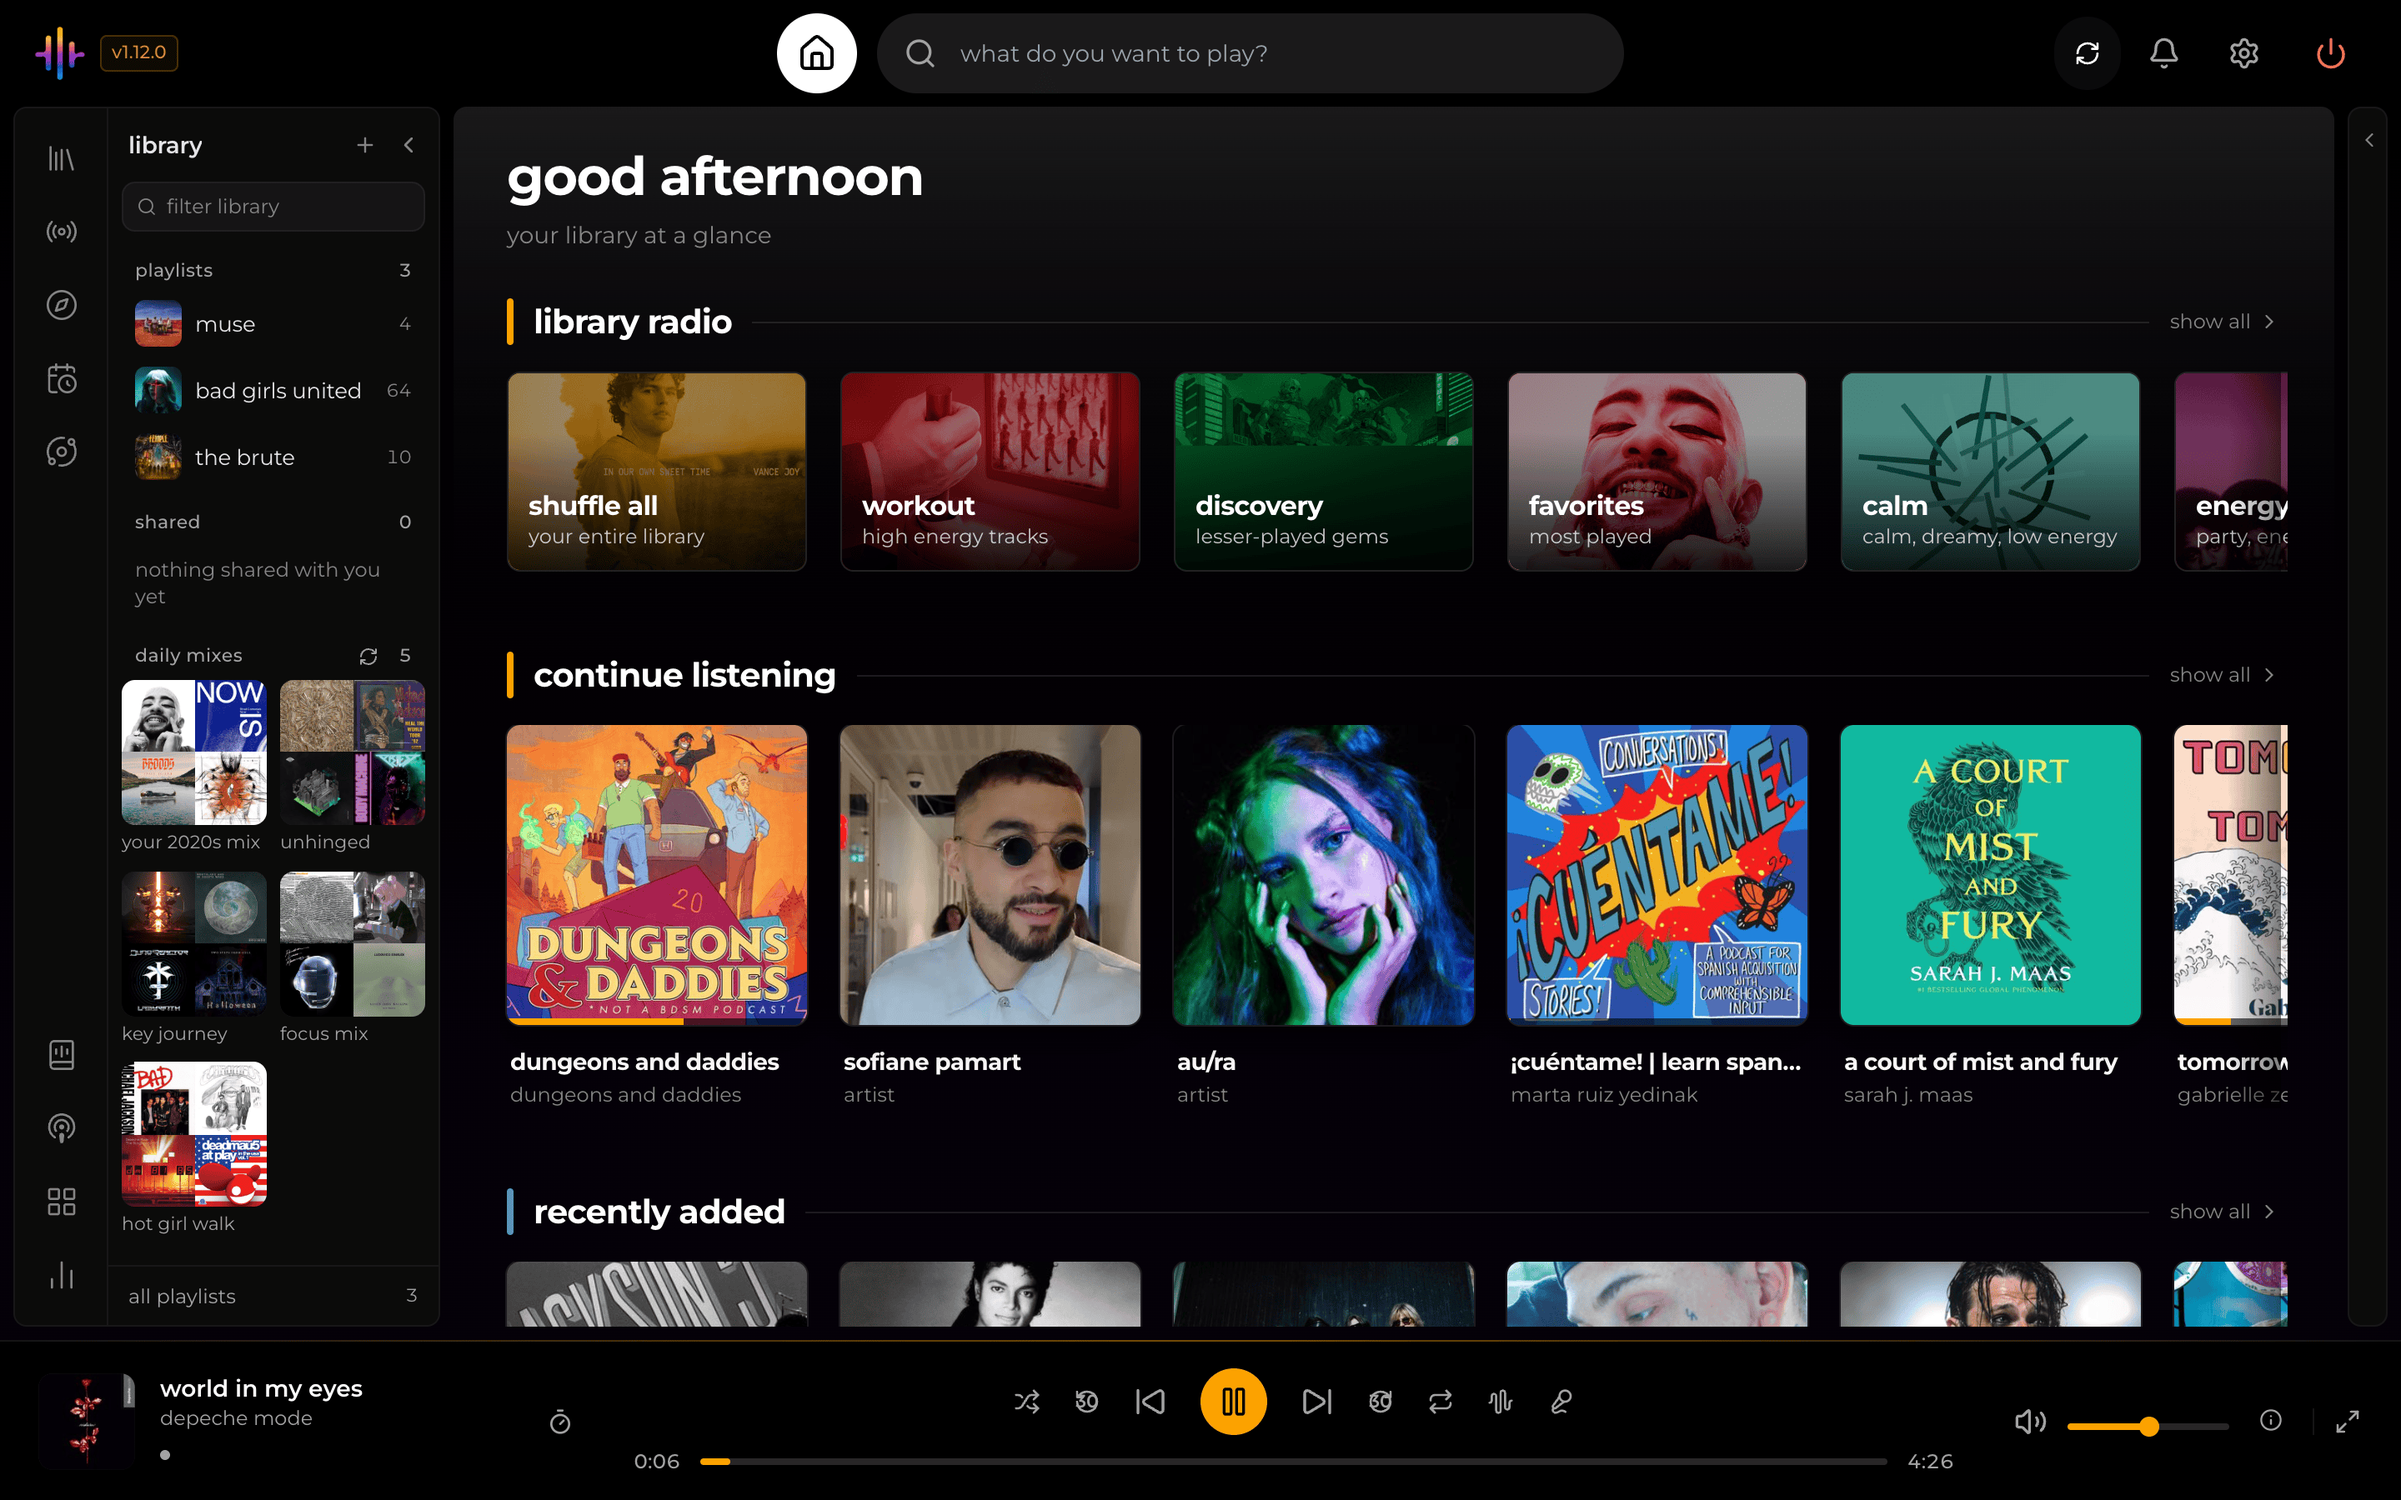
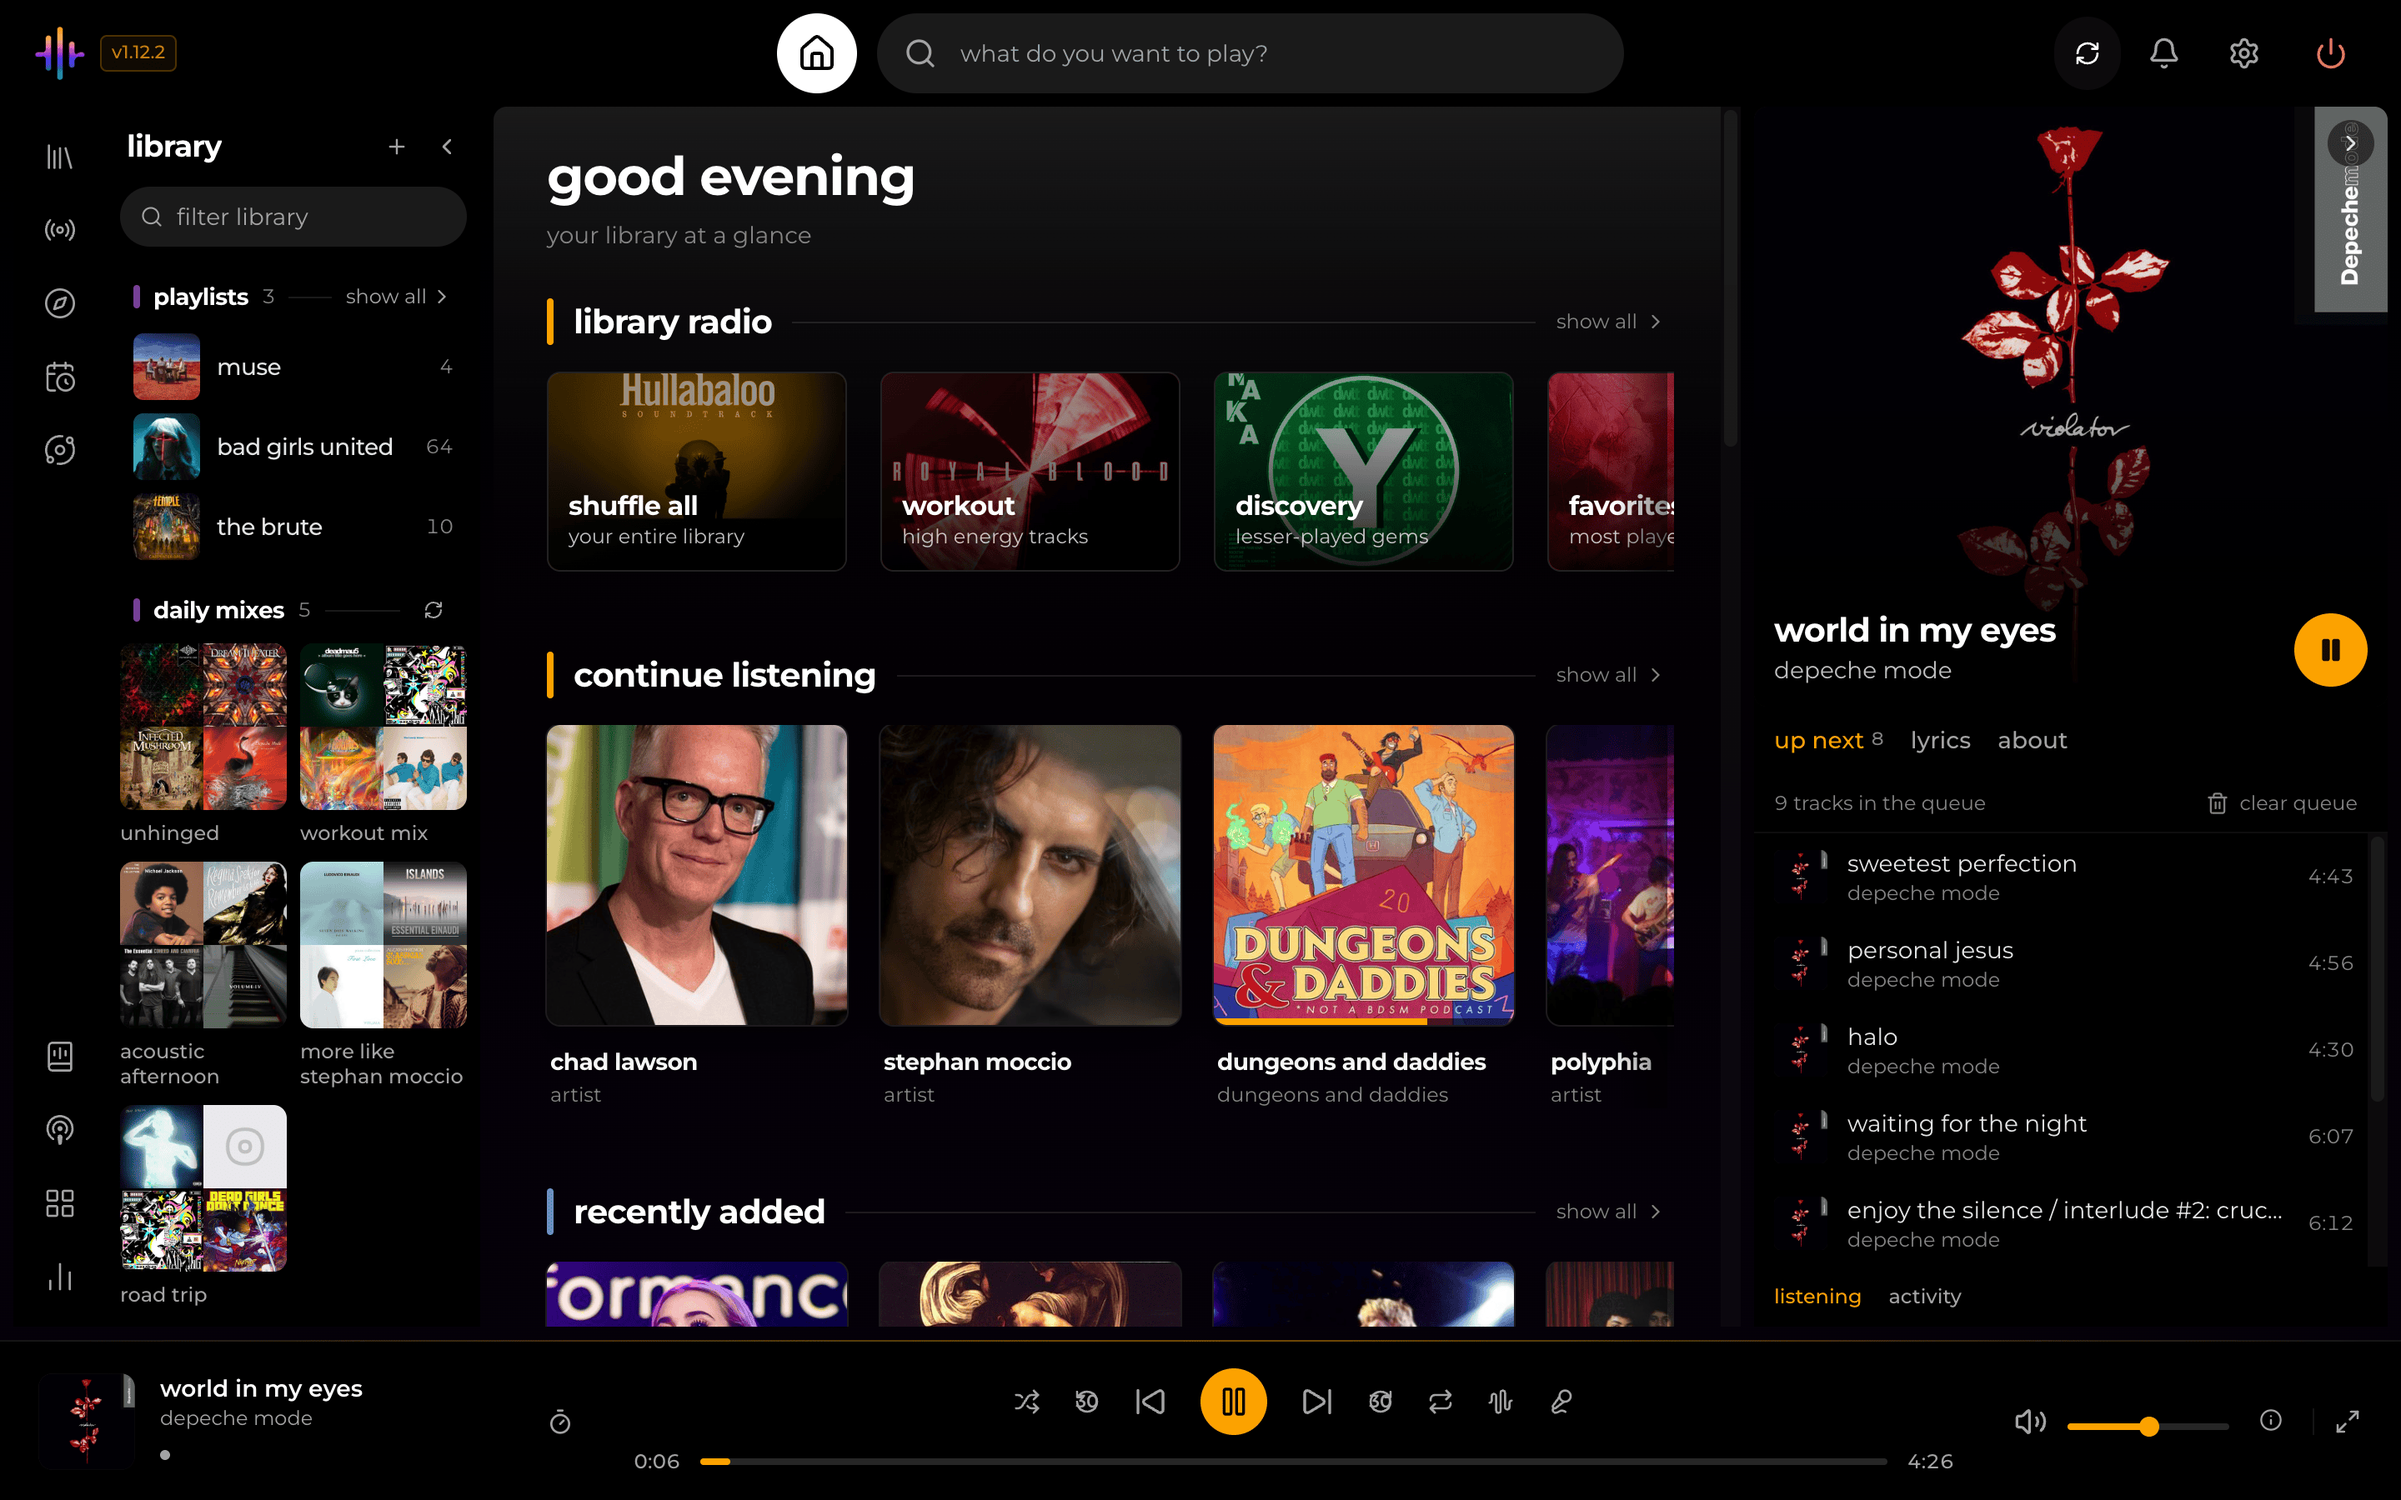
docs(readme): desktop screenshots retaken with the new sidebars

diff --git a/scripts/take-screenshots.js b/scripts/take-screenshots.js
@@ -137,8 +137,8 @@ const HIDE_INDICATORS = 'button[aria-label="Toggle activity panel"] > span.absol
 async function shot(page, name) {
     await guard(page, name);
     await page.addStyleTag({ content: HIDE_INDICATORS });
-    // Park the pointer on empty sidebar so no card shows its hover state.
-    if (page.viewportSize().width > 800) await page.mouse.move(130, 770);
+    // Park the pointer on the rail's empty middle so no row or card shows its hover state.
+    if (page.viewportSize().width > 800) await page.mouse.move(28, 500);
     await page.waitForTimeout(400);
     const file = path.join(OUT_DIR, `${name}.png`);
     await page.screenshot({ path: file, fullPage: false });
@@ -391,6 +391,9 @@ async function takeDesktopShots(browser) {
     const artistPath = await findArtistPath(p);
     if (!albumPath) throw new Error("the picked album was not found in the library");
     await startPlaying(p, albumPath);
+    // The right sidebar shows what is playing; every desktop shot keeps it open.
+    const openPanel = p.getByRole("button", { name: "open panel" });
+    if (await openPanel.isVisible().catch(() => false)) await openPanel.click();
 
     await attempt("desktop-home", async () => {
         await nav(p, "/");
